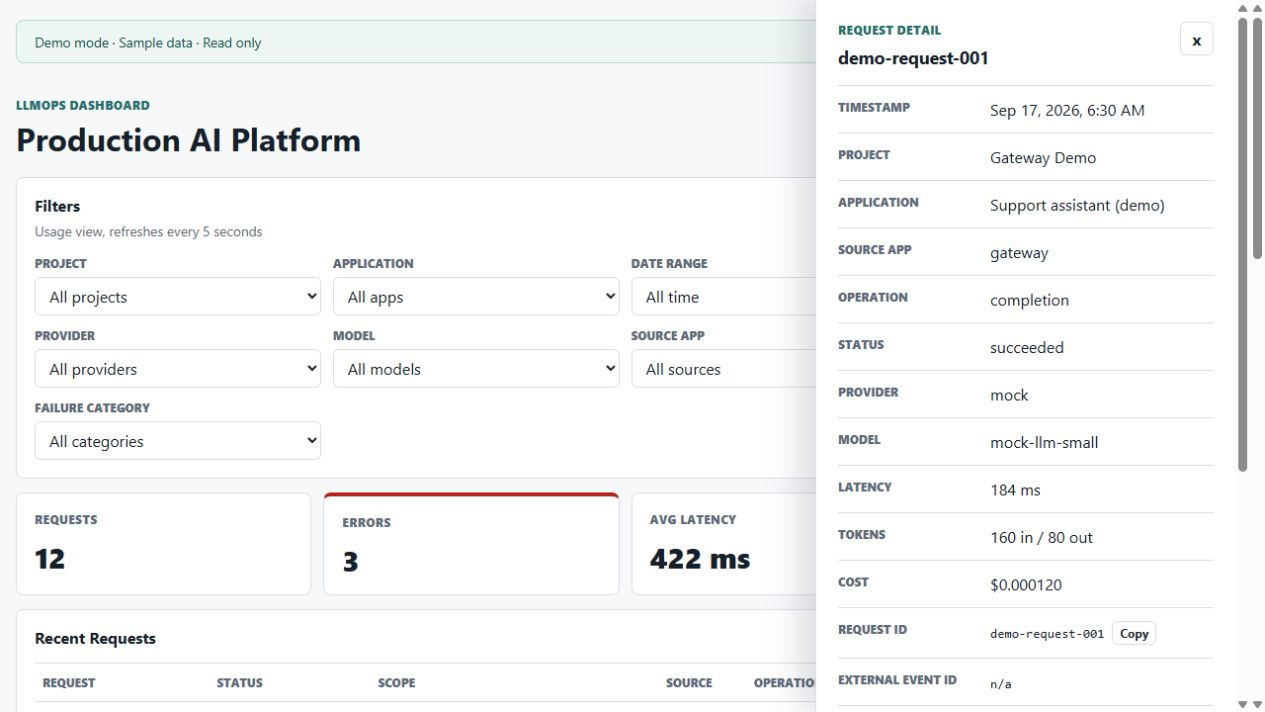
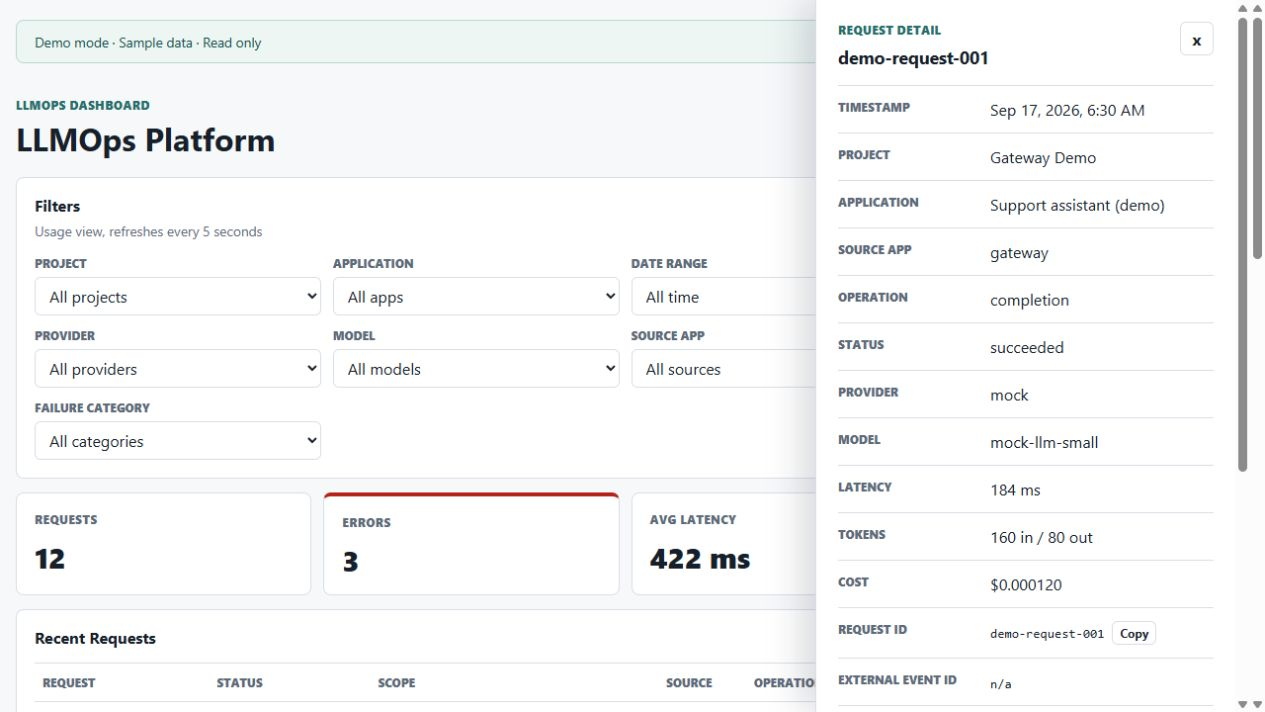
chore(project): adopt LLMOps Platform repository identity
Summary:
- Apply the owner-selected display name, description, repository links and fresh screenshots.
- Coordinate CI source identity, GitOps URLs and prospective AWS OIDC repository subjects.
- Preserve fixed private GHCR packages and runtime/resource identifiers across the rename.

Validation:
- 40 release/policy unit tests, CI policy validation, actionlint and Ruff passed.
- 24 frontend tests, lint, typecheck and production build passed.
- Terraform format and backend-disabled dev/staging/prod validation passed using cached providers.
- GitOps source/allowlist checks, screenshot review, source/image hashes and staged secret/diff checks passed.

Security:
- Require exact renamed source labels and trusted-main identity; retain fixed private package checks.
- No AWS calls, visibility changes, scanner exceptions or Phase 62 experiments.
- USD 5 Actions budget and Stop usage verified before rollout.

Phase:
- Owner-requested publication naming follow-up; publication and AWS approval gates remain.

Changed region(s): [[0.0, 0.1545, 0.3083, 0.2163]]

diff --git a/apps/web/components/operator-dashboard.tsx b/apps/web/components/operator-dashboard.tsx
@@ -30,7 +30,7 @@ export function OperatorDashboard() {
   }
   if (unavailable) return <main><h1>Operator dashboard unavailable</h1><p>Reload to retry the connection.</p></main>;
   if (!identity) return <main><p>Checking sign-in…</p></main>;
-  if (!identity.authenticated) return <main><h1>Production AI Platform</h1>{identity.mode === "disabled" ?
+  if (!identity.authenticated) return <main><h1>LLMOps Platform</h1>{identity.mode === "disabled" ?
     <p>Operator sign-in has not been configured.</p> : <a href="/api/auth/login">Sign in to the operator dashboard</a>}</main>;
   return <><aside className={styles.accessNotice} aria-label="Dashboard access">{identity.mode === "synthetic_demo" ?
     <p>Demo mode · Sample data · Read only</p> : <><span>Signed in · Project access controlled by your grants</span> <button onClick={() => void signOut()}>Sign out</button></>}</aside><Dashboard /></>;

diff --git a/apps/web/app/layout.tsx b/apps/web/app/layout.tsx
@@ -2,8 +2,8 @@ import type { Metadata } from "next";
 import "./globals.css";
 
 export const metadata: Metadata = {
-  title: "Production AI Platform",
-  description: "LLMOps gateway and usage dashboard"
+  title: "LLMOps Platform",
+  description: "An LLM gateway and operations dashboard with usage tracking, cost monitoring, and reproducible cloud infrastructure."
 };
 
 export default function RootLayout({

diff --git a/apps/web/components/dashboard.tsx b/apps/web/components/dashboard.tsx
@@ -403,7 +403,7 @@ export function Dashboard() {
       <header className={styles.header}>
         <div>
           <p className={styles.kicker}>LLMOps Dashboard</p>
-          <h1>Production AI Platform</h1>
+          <h1>LLMOps Platform</h1>
         </div>
       </header>
       {content}

diff --git a/scripts/tests/test_registry_images.py b/scripts/tests/test_registry_images.py
@@ -43,6 +43,16 @@ class RegistryImagesTest(unittest.TestCase):
             },
         }
 
+    def test_source_rename_preserves_fixed_private_package_destinations(self):
+        self.assertEqual(REPOSITORY, "christiankfoury/llmops-platform")
+        for name in IMAGES:
+            self.assertEqual(
+                registry.image_repository(name),
+                f"ghcr.io/christiankfoury/production-ai-platform-ci-{name}",
+            )
+        with self.assertRaises(ValueError):
+            registry.image_repository("foreign")
+
     def test_registry_transport_allows_repacked_tar_but_not_changed_image_bytes(self):
         repacked = self.path.with_name("repacked.tar")
         with tarfile.open(self.path) as source, tarfile.open(repacked, "w") as dest:
@@ -172,7 +182,11 @@ class RegistryImagesTest(unittest.TestCase):
                     check_image_source_labels(bad)
 
     def test_verified_registry_bytes_require_the_exact_source_repository(self):
-        for source in (None, "https://github.com/foreign/repo"):
+        for source in (
+            None,
+            "https://github.com/foreign/repo",
+            "https://github.com/christiankfoury/production-ai-platform",
+        ):
             fixture = fixtures.BundleTest()
             fixture.source = source
             fixture.setUp()

diff --git a/scripts/release_eligibility.py b/scripts/release_eligibility.py
@@ -12,7 +12,7 @@ import subprocess
 import zipfile
 from pathlib import Path
 
-REPOSITORY = "christiankfoury/production-ai-platform"
+REPOSITORY = "christiankfoury/llmops-platform"
 WORKFLOW = ".github/workflows/ci.yml"
 ROOT = Path(__file__).resolve().parents[1]
 POLICY_FILES = (
@@ -45,7 +45,7 @@ REQUIRED = {
     "tgb": "tgb / compatibility",
 }
 PR_IMAGE_JOB = "Pull-request image build and scan"
-MAIN_IMAGE_IF = "${{ github.event_name == 'push' && github.ref == 'refs/heads/main' && github.repository == 'christiankfoury/production-ai-platform' }}"
+MAIN_IMAGE_IF = "${{ github.event_name == 'push' && github.ref == 'refs/heads/main' && github.repository == 'christiankfoury/llmops-platform' }}"
 PR_IMAGE_IF = "${{ github.event_name == 'pull_request' }}"
 
 

diff --git a/scripts/registry_images.py b/scripts/registry_images.py
@@ -18,13 +18,17 @@ from pathlib import Path
 
 from release_bundle import IMAGES, REPOSITORY, ROOT, SHA, inspect_oci, json_bytes
 
+# Keep existing private packages stable across the source repository rename.
+# Source labels and Actions identity still bind new releases to REPOSITORY.
+REGISTRY_NAMESPACE = "christiankfoury/production-ai-platform"
+
 FIELDS = ("digest", "config_digest", "runtime_manifest_digest", "platform")
 
 
 def image_repository(name: str) -> str:
     if name not in IMAGES:
         raise ValueError("Unexpected release image")
-    return f"ghcr.io/{REPOSITORY}-ci-{name}"
+    return f"ghcr.io/{REGISTRY_NAMESPACE}-ci-{name}"
 
 
 def validate_storage(manifest: dict) -> None:

diff --git a/scripts/validate_ci_policy.py b/scripts/validate_ci_policy.py
@@ -47,9 +47,7 @@ def check_image_source_labels(job: dict) -> None:
         for step in job.get("steps", [])
         if step.get("uses", "").startswith("docker/build-push-action@")
     ]
-    expected = (
-        "org.opencontainers.image.source=https://github.com/christiankfoury/production-ai-platform"
-    )
+    expected = "org.opencontainers.image.source=https://github.com/christiankfoury/llmops-platform"
     if len(builds) != 3 or any(step.get("with", {}).get("labels") != expected for step in builds):
         raise ValueError("All three tested image builds must identify their source repository")
 

diff --git a/scripts/release_bundle.py b/scripts/release_bundle.py
@@ -14,7 +14,7 @@ import urllib.request
 from pathlib import Path, PurePosixPath
 
 ROOT = Path(__file__).resolve().parents[1]
-REPOSITORY = "christiankfoury/production-ai-platform"
+REPOSITORY = "christiankfoury/llmops-platform"
 IMAGES = ("api", "migration", "web")
 SHA = re.compile(r"sha256:[0-9a-f]{64}")
 MANIFEST_TYPES = {

diff --git a/docs/external-telemetry-contract.md b/docs/external-telemetry-contract.md
@@ -6,21 +6,21 @@ Phase 31 focused on Proofbase (`enterprise-knowledge-agent`) first. Phases 41-47
 
 ## Integration Goal
 
-Production AI Platform should centralize LLMOps visibility for external applications without taking over their product-layer behavior.
+LLMOps Platform should centralize LLMOps visibility for external applications without taking over their product-layer behavior.
 
 For Proofbase, that means:
 
 - Proofbase keeps owning RAG, retrieval, citations, permissions, memory behavior, document workflows, and answer-quality evaluation.
-- Production AI Platform receives normalized events for model usage, estimated cost, latency, status, token usage, request IDs, and bounded metadata.
-- Proofbase continues to work if Production AI Platform is unavailable.
+- LLMOps Platform receives normalized events for model usage, estimated cost, latency, status, token usage, request IDs, and bounded metadata.
+- Proofbase continues to work if LLMOps Platform is unavailable.
 
 This phase does not route Proofbase provider calls through the gateway. Gateway-routed Proofbase calls are a later option after the gateway supports the richer RAG provider contract.
 
 For AgentOps, that means:
 
 - AgentOps keeps owning workflow execution, agent planning, prompts, structured outputs, retries, tool behavior, and workflow state.
-- Production AI Platform receives normalized events for model usage, estimated cost, latency, status, token usage, retry count, workflow/step IDs, and bounded agent metadata.
-- AgentOps continues to work if Production AI Platform is unavailable.
+- LLMOps Platform receives normalized events for model usage, estimated cost, latency, status, token usage, retry count, workflow/step IDs, and bounded agent metadata.
+- AgentOps continues to work if LLMOps Platform is unavailable.
 
 The AgentOps implementation plan is documented in [agentops-integration-plan.md](archive/agentops-integration-plan.md).
 
@@ -34,7 +34,7 @@ X-API-Key: <application API key>
 Idempotency-Key: <optional stable event key>
 ```
 
-The API key identifies the calling Production AI Platform application record. The request body identifies the external operation and usage facts.
+The API key identifies the calling LLMOps Platform application record. The request body identifies the external operation and usage facts.
 
 Accepted events are persisted as gateway request records with external telemetry fields and, when cost is present, matching cost records. This makes external events visible in the existing usage summary and request-list endpoints without claiming that the gateway performed the provider call.
 
@@ -106,7 +106,7 @@ Example payload:
 | `generation_latency_ms` | integer | Proofbase-specific generation latency. |
 | `error_category` | string | Bounded category such as `provider_error`, `provider_timeout`, `validation_error`, `rate_limited`, or `unknown`. Required when `status` is `failed` if known. |
 | `error_message_redacted` | string | Short sanitized message. No prompts, document text, provider payloads, or secrets. |
-| `project_external_id` | string | Source app project identifier. It is not a Production AI Platform project UUID. |
+| `project_external_id` | string | Source app project identifier. It is not an LLMOps Platform project UUID. |
 | `department_external_id` | string | Optional Proofbase department identifier. |
 | `metadata` | object | Bounded sanitized operational metadata. Keys and values must be allowlisted by the source app. |
 
@@ -136,7 +136,7 @@ AgentOps phases should add these operation types:
 
 External telemetry must not include these values by default:
 
-- Production AI Platform API keys.
+- LLMOps Platform API keys.
 - Provider API keys or credentials.
 - Authorization headers, cookies, session tokens, or database connection strings.
 - Full prompts or system messages.
@@ -237,7 +237,7 @@ Proofbase already has local request/cost fields that can map to this contract:
 | `project_id` | `project_external_id` |
 | `department_id` | `department_external_id` |
 
-Proofbase's local observability log may keep app-local diagnostics such as truncated questions. Those fields must not cross into Production AI Platform telemetry unless a later privacy review explicitly approves them.
+Proofbase's local observability log may keep app-local diagnostics such as truncated questions. Those fields must not cross into LLMOps Platform telemetry unless a later privacy review explicitly approves them.
 
 ## AgentOps Field Mapping
 
@@ -261,11 +261,11 @@ AgentOps already has local workflow, step, and cost fields that can map to this 
 | `AgentStep.retry_count` | `metadata.retry_count` |
 | sanitized local error category | `error_category` |
 
-AgentOps local records may keep workflow input/output JSON and error messages. Those fields must not cross into Production AI Platform telemetry unless a later privacy review explicitly approves a redacted debug mode.
+AgentOps local records may keep workflow input/output JSON and error messages. Those fields must not cross into LLMOps Platform telemetry unless a later privacy review explicitly approves a redacted debug mode.
 
 ## Phase Notes
 
-Phase 32 implements the Production AI Platform ingestion API from this contract.
+Phase 32 implements the LLMOps Platform ingestion API from this contract.
 
 Phases 33-39 should connect Proofbase one operation group at a time:
 

diff --git a/docs/agentops-integration.md b/docs/agentops-integration.md
@@ -1,15 +1,15 @@
 # AgentOps Integration
 
-AgentOps Workflow Platform is now a connected client app for Production AI Platform telemetry.
+AgentOps Workflow Platform is now a connected client app for LLMOps Platform telemetry.
 
-Production AI Platform centralizes AgentOps operational visibility for agent-step usage, token counts, estimated cost, latency, status, failures, source-app filtering, workflow summaries, and dashboard review. AgentOps still owns the agent workflow layer: workflow execution, agent prompts, structured outputs, tool behavior, workflow input/output state, local evaluation, and per-workflow product UX.
+LLMOps Platform centralizes AgentOps operational visibility for agent-step usage, token counts, estimated cost, latency, status, failures, source-app filtering, workflow summaries, and dashboard review. AgentOps still owns the agent workflow layer: workflow execution, agent prompts, structured outputs, tool behavior, workflow input/output state, local evaluation, and per-workflow product UX.
 
 ## What Is Connected
 
 The integration is telemetry-first:
 
 - AgentOps can send best-effort LLM usage events to `POST /v1/usage/llm-events`.
-- Production AI Platform authenticates the AgentOps application API key, validates the event contract, persists usage/cost data when present, emits ingestion metrics, and shows the event in the dashboard.
+- LLMOps Platform authenticates the AgentOps application API key, validates the event contract, persists usage/cost data when present, emits ingestion metrics, and shows the event in the dashboard.
 - Dashboard filters can isolate `source_app=agentops` and show `AgentOps Workflow Platform / AgentOps Workflow Platform` traffic.
 
 Covered AgentOps operation types:
@@ -20,7 +20,7 @@ Covered AgentOps operation types:
 
 ## Boundary
 
-Production AI Platform does not execute AgentOps workflows, route AgentOps tool calls, own AgentOps prompts, inspect generated outputs, parse workflow input/output JSON, evaluate workflow quality, or handle tool payloads.
+LLMOps Platform does not execute AgentOps workflows, route AgentOps tool calls, own AgentOps prompts, inspect generated outputs, parse workflow input/output JSON, evaluate workflow quality, or handle tool payloads.
 
 AgentOps does not need to route provider calls through this gateway for the current integration. The current path centralizes operational telemetry while AgentOps keeps its workflow runtime, local cost tracking, retries, tools, and product behavior.
 
@@ -50,7 +50,7 @@ Telemetry payloads must not include:
 
 ## Failure Behavior
 
-AgentOps telemetry is best-effort. If Production AI Platform is unavailable, slow, or rejects an event, AgentOps should continue running workflows and record a redacted local diagnostic entry without exposing secrets or workflow payloads.
+AgentOps telemetry is best-effort. If LLMOps Platform is unavailable, slow, or rejects an event, AgentOps should continue running workflows and record a redacted local diagnostic entry without exposing secrets or workflow payloads.
 
 Expected operator response:
 

diff --git a/docs/proofbase-integration.md b/docs/proofbase-integration.md
@@ -1,15 +1,15 @@
 # Proofbase Integration
 
-Proofbase is now a connected client app for Production AI Platform telemetry.
+Proofbase is now a connected client app for LLMOps Platform telemetry.
 
-Production AI Platform centralizes Proofbase AI operation visibility for usage, token counts, estimated cost, latency, status, failures, source-app filtering, and dashboard review. Proofbase still owns the AI product layer: document ingestion, scoped retrieval, citation grounding, permission filtering, memory behavior, and benchmark-driven answer quality.
+LLMOps Platform centralizes Proofbase AI operation visibility for usage, token counts, estimated cost, latency, status, failures, source-app filtering, and dashboard review. Proofbase still owns the AI product layer: document ingestion, scoped retrieval, citation grounding, permission filtering, memory behavior, and benchmark-driven answer quality.
 
 ## What Is Connected
 
 The integration is telemetry-first:
 
 - Proofbase sends best-effort LLM usage events to `POST /v1/usage/llm-events`.
-- Production AI Platform authenticates the Proofbase application API key, validates the event contract, persists usage/cost data, emits ingestion metrics, and shows the event in the dashboard.
+- LLMOps Platform authenticates the Proofbase application API key, validates the event contract, persists usage/cost data, emits ingestion metrics, and shows the event in the dashboard.
 - Dashboard filters can isolate `source_app=proofbase` and show `Proofbase / Enterprise Knowledge Agent` traffic.
 
 Covered Proofbase operation types:
@@ -22,7 +22,7 @@ Covered Proofbase operation types:
 
 ## Boundary
 
-Production AI Platform does not perform Proofbase retrieval, citation validation, permission filtering, document ingestion, memory evaluation, or answer-quality benchmarking.
+LLMOps Platform does not perform Proofbase retrieval, citation validation, permission filtering, document ingestion, memory evaluation, or answer-quality benchmarking.
 
 Proofbase does not need to route provider calls through this gateway for the current integration. Gateway-routed Proofbase calls can be considered later only after the gateway supports Proofbase's richer provider contract and product-safety requirements.
 
@@ -54,7 +54,7 @@ Telemetry payloads must not include:
 
 ## Failure Behavior
 
-Proofbase telemetry is best-effort. If Production AI Platform is unavailable, slow, or rejects an event, Proofbase should continue serving users and record a local diagnostic entry without exposing secrets.
+Proofbase telemetry is best-effort. If LLMOps Platform is unavailable, slow, or rejects an event, Proofbase should continue serving users and record a local diagnostic entry without exposing secrets.
 
 Expected operator response:
 

diff --git a/docs/publication-decisions.md b/docs/publication-decisions.md
@@ -12,7 +12,7 @@ job applications. This supersedes earlier publication ordering, not deployment g
 | Reporting | GitHub private vulnerability-reporting form; enable and verify during publication. |
 | Main branch | Require PRs, up-to-date CI, no additional reviewer, administrator enforcement, no bypass/force pushes/deletion. Saved settings verified: all 11 applicable GitHub Actions contexts, strict/up-to-date checks, zero extra reviewers, enforce administrators, required conversation resolution, no bypass, force push or deletion. |
 | GHCR | Images remain private with explicit owner and repository Actions access. Inherited repository readership removed for all three existing packages; private visibility and explicit repository Actions access verified. Main digest checks pending. |
-| CI | Preserve all required tests/scans, 14-day reports, digest verification and USD 5/month Actions cost controls. [Cleanup PR #2](https://github.com/christiankfoury/production-ai-platform/pull/2) tracks current-revision CI and merged-main verification; preparation is not complete until both pass. |
+| CI | Preserve all required tests/scans, 14-day reports, digest verification and USD 5/month Actions cost controls. [Cleanup PR #2](https://github.com/christiankfoury/llmops-platform/pull/2) tracks current-revision CI and merged-main verification; preparation is not complete until both pass. |
 | Exposure review | Review all downloadable retained logs/artifacts and current Git refs. Record unavailable material separately. [Baseline review](security/publication-review.md) complete; new PR/main evidence pending. |
 | Visibility | Final approval follows the finished README, screenshots, evidence and findings. No visibility change performed by preparation. |
 | Monitoring and AWS | Phase 62 remains blocked; Phase 66 setup/deployment and final cloud closeout remain outstanding. |
